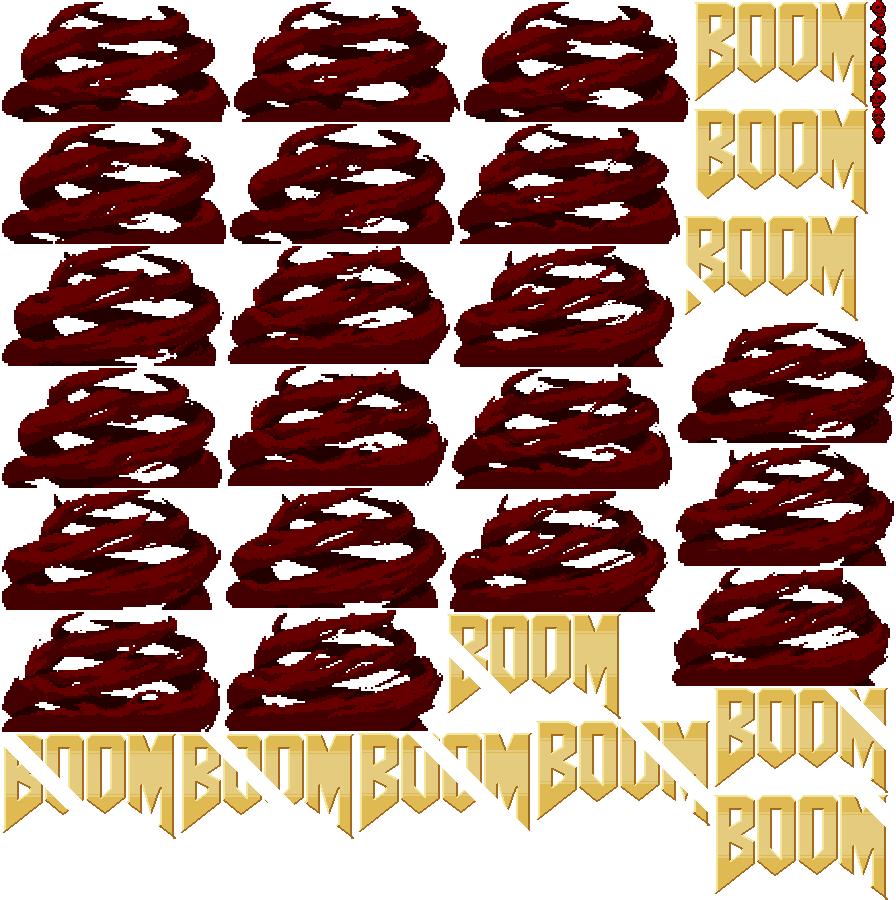
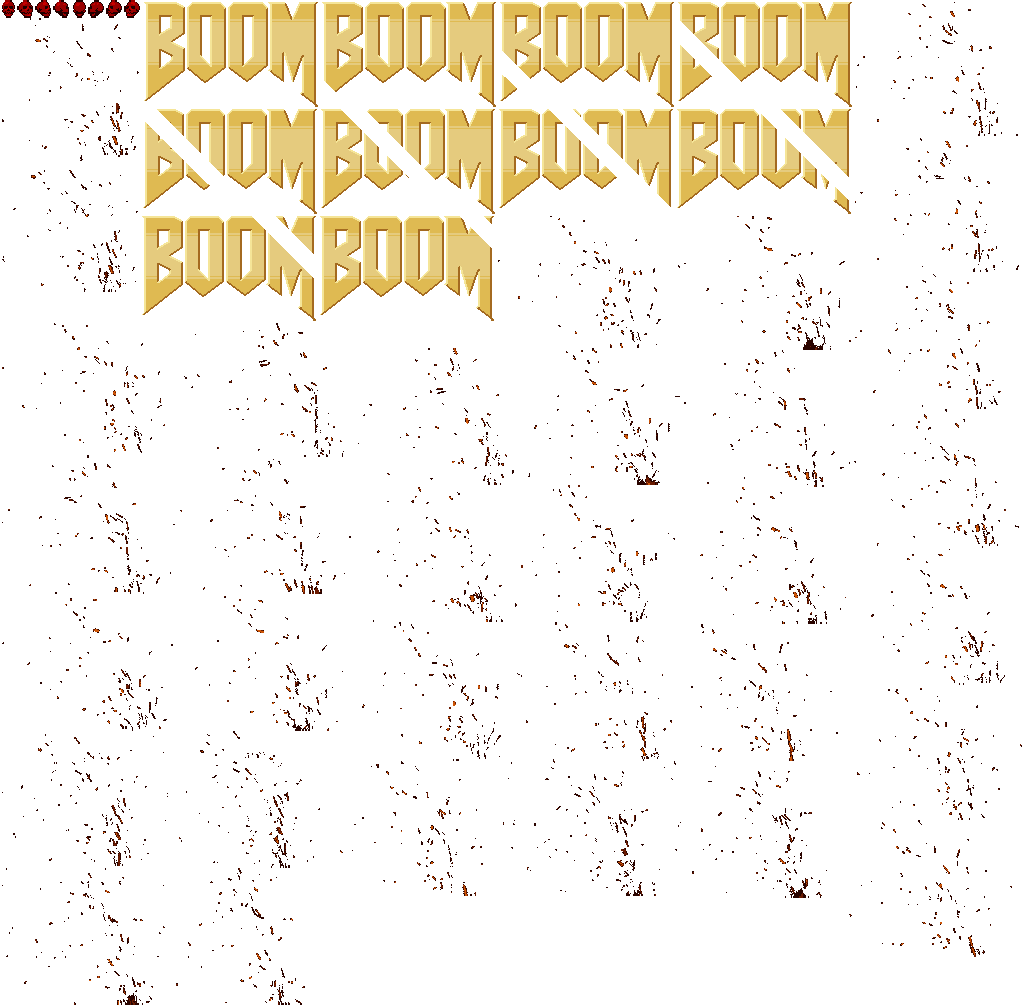
Added sparks sprite to title scene

diff --git a/src/assets/scripts/components/Game/scenes/TitleScene/parsers/index.js b/src/assets/scripts/components/Game/scenes/TitleScene/parsers/index.js
@@ -1,8 +1,8 @@
 import { SCREEN } from 'game/constants/config';
-import { BLACK } from 'game/constants/colors';
+import { RED } from 'game/constants/colors';
 import { RectangleSprite } from 'game/core/graphics';
 import LogoSprite from '../sprites/LogoSprite';
-import SmokeSprite from '../sprites/SmokeSprite';
+import SparksSprite from '../sprites/SparksSprite';
 
 /**
  * @module game/scenes/title-scene/parsers
@@ -17,7 +17,7 @@ export const parse = ({ graphics }) => {
   const { data, textures } = graphics;
   const { animations } = data;
 
-  const smokeTextures = animations.smoke.map(image => textures[image]);
+  const sparksTextures = animations.sparks.map(image => textures[image]);
   const logoTextures = animations.logo.map(image => textures[image]);
 
   return {
@@ -26,9 +26,10 @@ export const parse = ({ graphics }) => {
         background: new RectangleSprite({
           width: SCREEN.WIDTH,
           height: SCREEN.HEIGHT,
-          color: BLACK,
+          color: RED,
+          alpha: 0.05,
         }),
-        smoke: new SmokeSprite(smokeTextures),
+        sparks: new SparksSprite(sparksTextures),
       },
       foreground: {
         logo: new LogoSprite(logoTextures),

diff --git a/src/assets/scripts/components/Game/scenes/TitleScene/containers/BackgroundContainer/index.js b/src/assets/scripts/components/Game/scenes/TitleScene/containers/BackgroundContainer/index.js
@@ -1,4 +1,4 @@
-import { Container, PixelateFilter } from 'game/core/graphics';
+import { Container } from 'game/core/graphics';
 
 /**
  * Class representing a background container.
@@ -9,18 +9,11 @@ class BackgroundContainer extends Container {
    * @param  {SmokeSprite}     options.smoke         A smoke sprite.
    * @param  {RectangleSprite} options.background A sparks sprite.
    */
-  constructor({ smoke, background }) {
+  constructor({ sparks, background }) {
     super();
 
     this.addChild(background);
-    // this.addChild(smoke);
-
-    // this.filters = [new PixelateFilter()];
-    // this.filters[0].enabled = false;
-
-    // this.on('added', () => {
-    //   this.filters[0].size = 20 * this.parent.scale.x;
-    // });
+    this.addChild(sparks);
   }
 }
 

diff --git a/src/assets/scripts/components/Game/index.js b/src/assets/scripts/components/Game/index.js
@@ -92,7 +92,7 @@ class Game extends Application {
     this.ticker.start();
     this.sound.add(GAME_SOUNDS.NAME, sound);
 
-    this.showWorldScene();
+    this.showTitleScene();
 
     this.emit(EVENTS.STARTED);
   }
